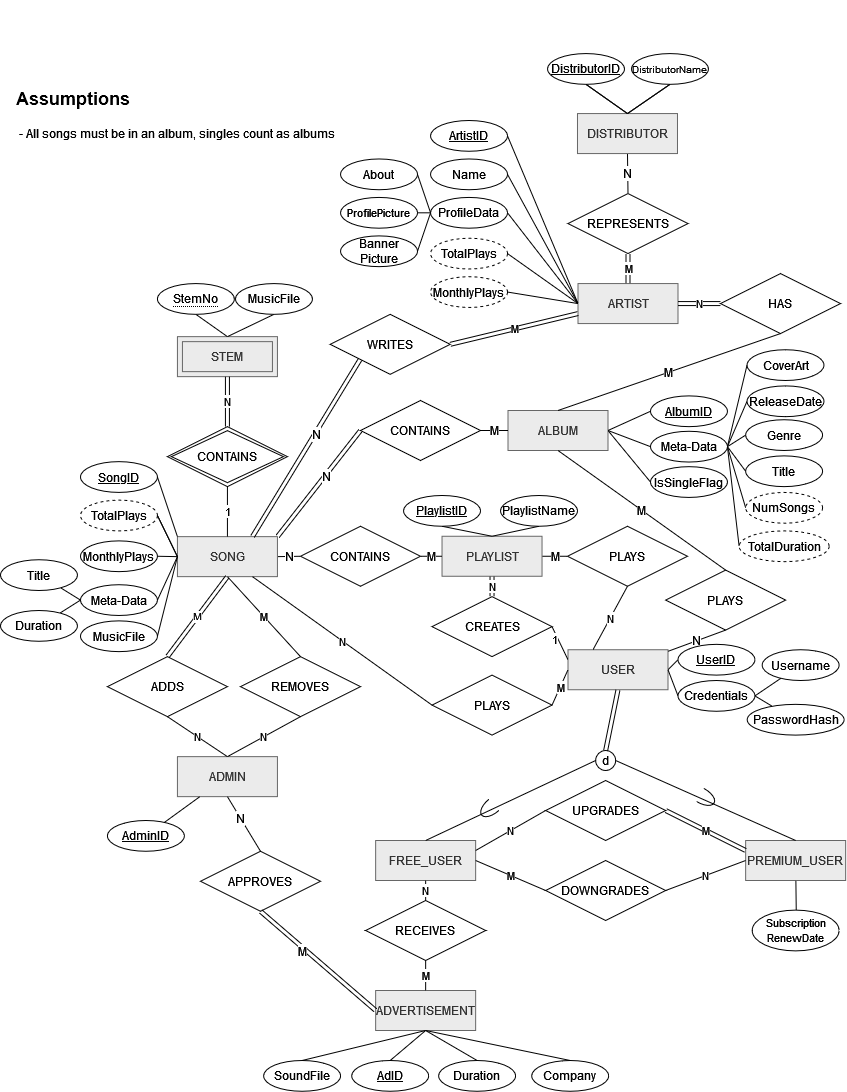
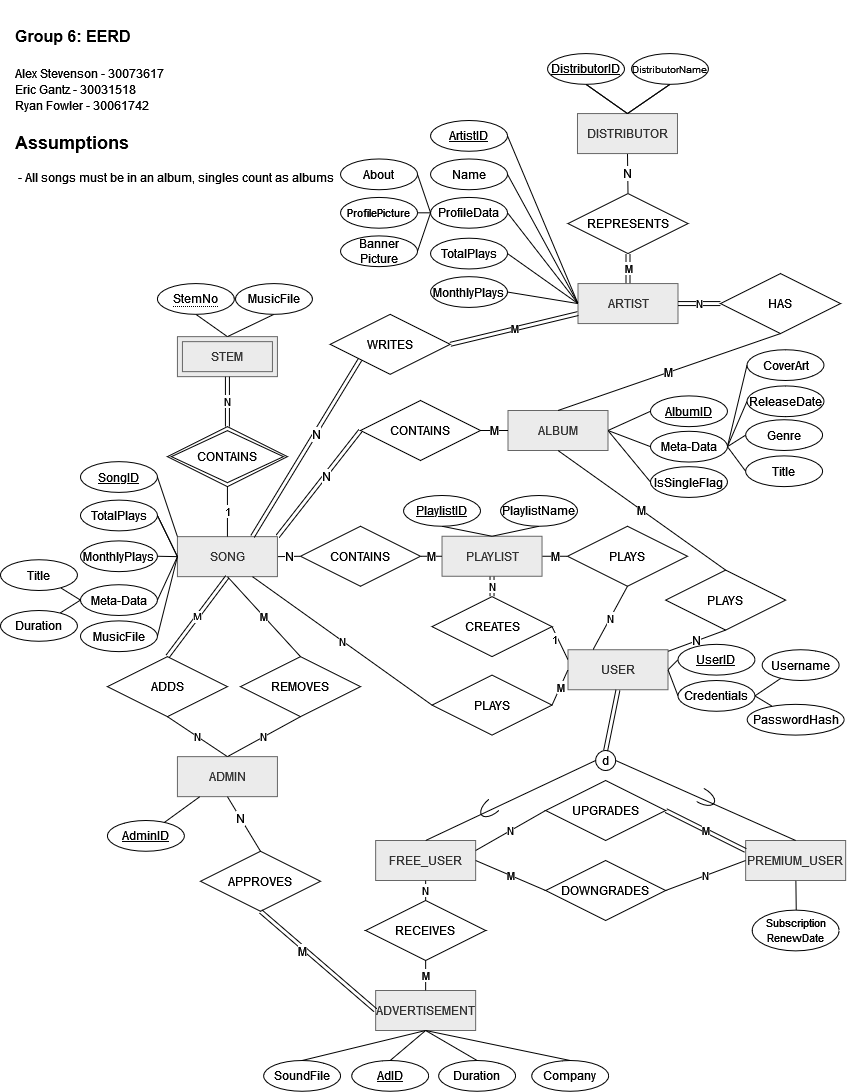
update diagrams and functional model to be more up to date

diff --git a/Tasks.md b/Tasks.md
@@ -12,10 +12,6 @@
     - Not done yet due to active work
     - Make sure all `href` and `header location` tags are pointing to the absolute filepath, not the relative one (their paths should always start with `/`)
     - Make sure all `$prepare`s and `mysqli` connections are closed
- - Report Changes
-    - Make sure the SQL statements in the functional model are up to date
-       - The CREATE_TABLES commands need to be changed to account for default 0 values in plays, and removing NumSongs and TotalDuration from ALBUM
-    - Edit our previous reports and deliverables that mention ad functionality that is inconsistent with the work done
 
 ## Stretch Goals
  - Actually being able to play music...
